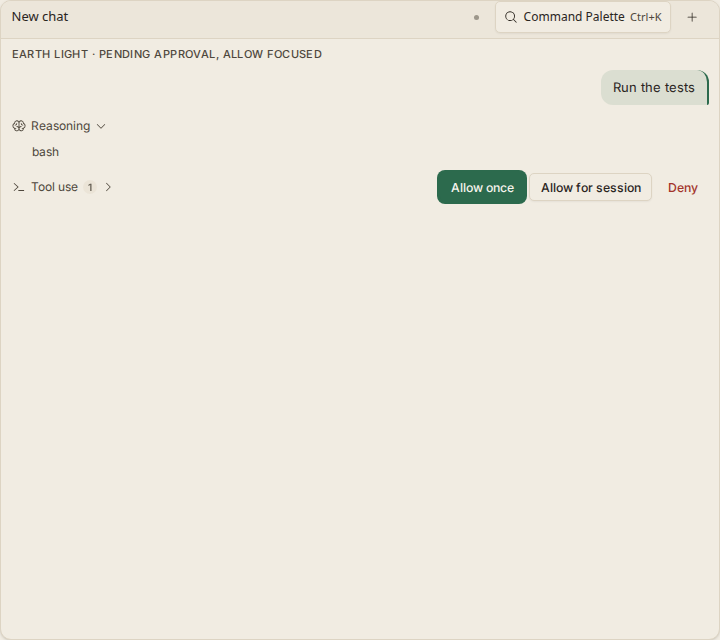
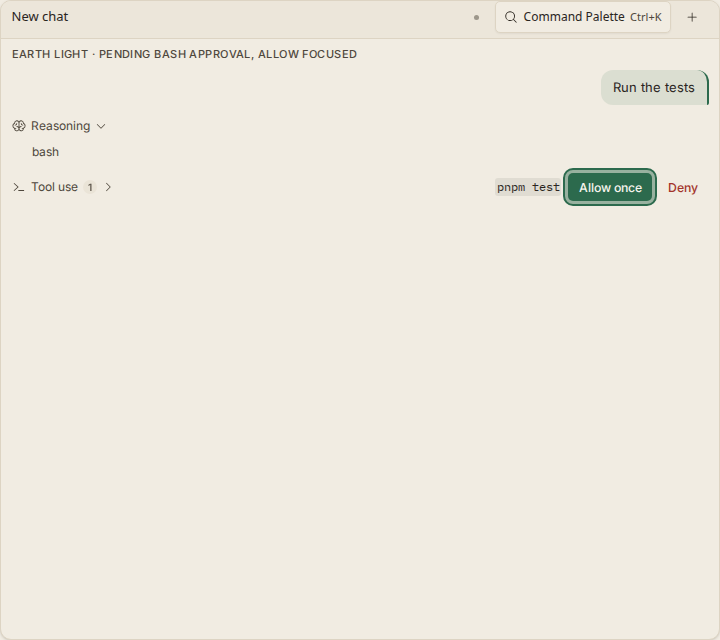
docs: reshoot audit-chat after #200 bash approval merge
Add pending bash card shots and collapsed-row Allow focus in
Graphite dark and Earth light. Keep the literal command on the
collapsed Tool use row.

QA: review-shot capture via scripts/capture-audit-chat.mjs.
Localization: none — English only (C18).
PostHog: no event needed because these are review shots.

Changed region(s): [[0.5806, 0.25, 0.9167, 0.3438], [0.2139, 0.0625, 0.4889, 0.0938]]

diff --git a/scripts/audit-chat-shots.css b/scripts/audit-chat-shots.css
@@ -2,7 +2,14 @@
 
 /* Playwright focus() does not always trip :focus-visible. The shot still
    needs the same ring the product button uses for keyboard focus. */
-[data-state="approval-allow-focus"] [data-testid="approval-allow_once"]:focus {
-  border-color: var(--ring);
-  box-shadow: 0 0 0 3px var(--state-focus-ring);
+[data-state="approval-allow-focus"] [data-testid="approval-allow_once"] {
+  transition: none !important;
+}
+
+[data-state="approval-allow-focus"] [data-testid="approval-allow_once"]:focus,
+[data-state="approval-allow-focus"] [data-testid="approval-allow_once"]:focus-visible {
+  border-color: var(--primary) !important;
+  outline: 2px solid var(--primary) !important;
+  outline-offset: 3px !important;
+  box-shadow: 0 0 0 4px color-mix(in srgb, var(--primary) 45%, transparent) !important;
 }
